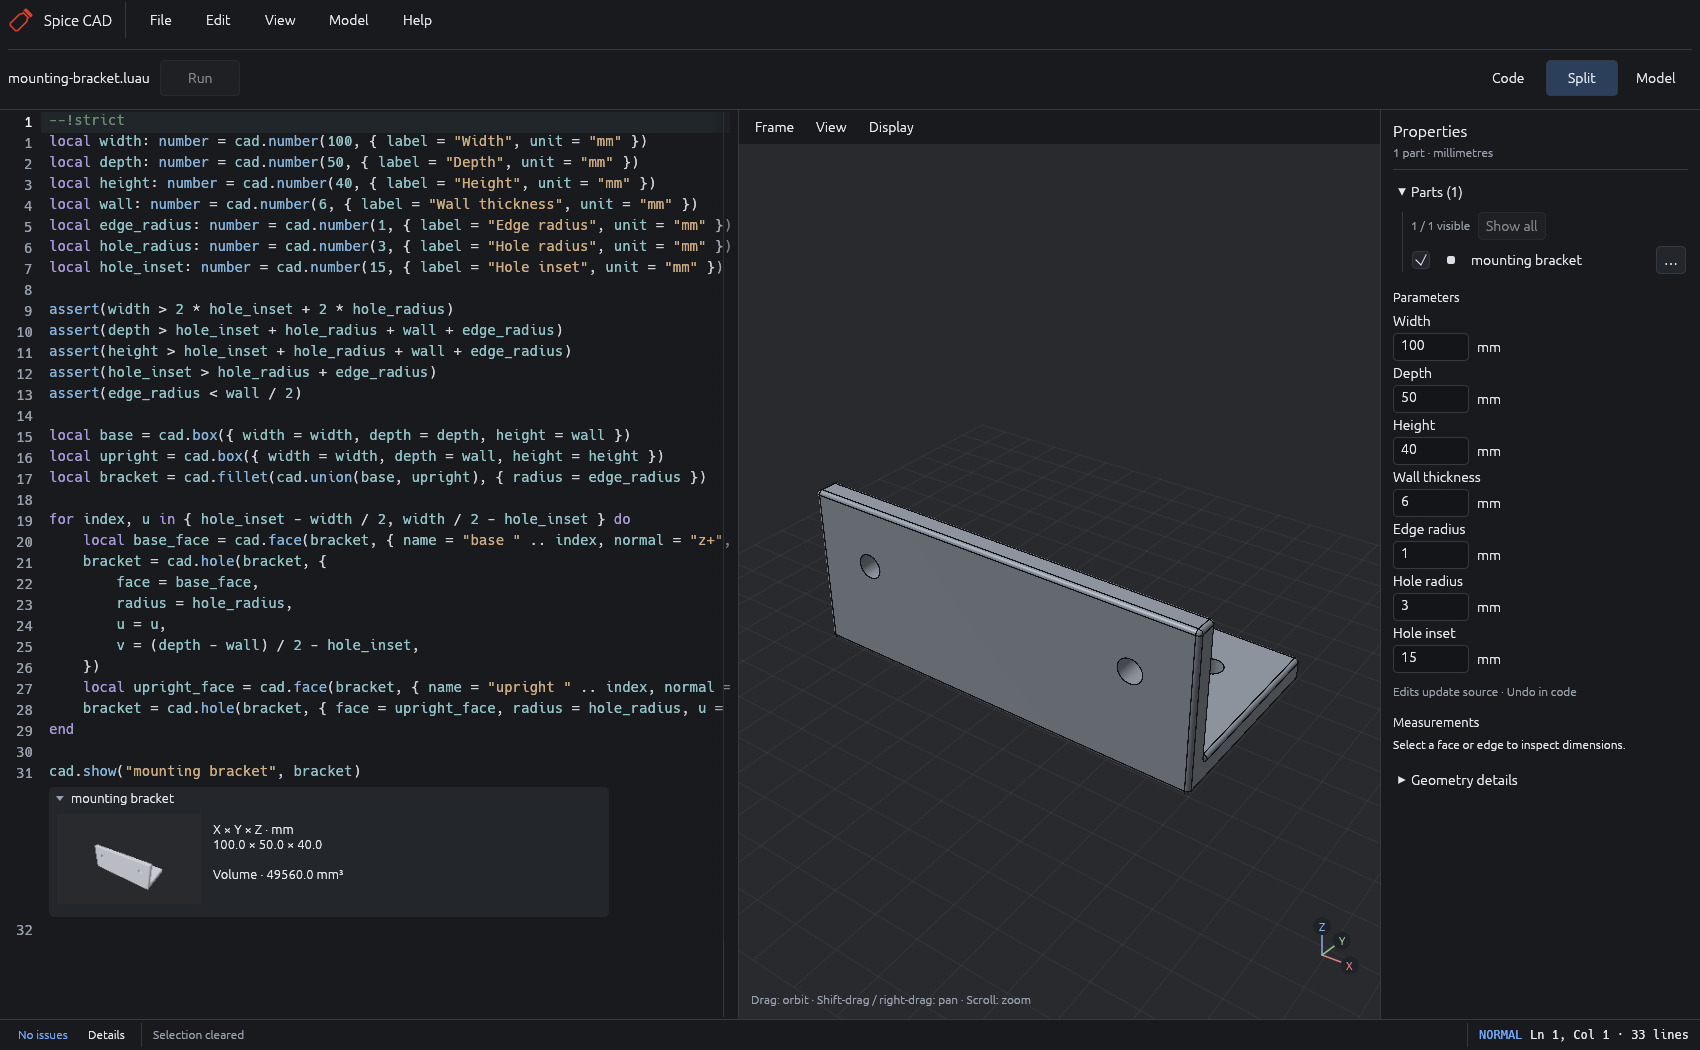
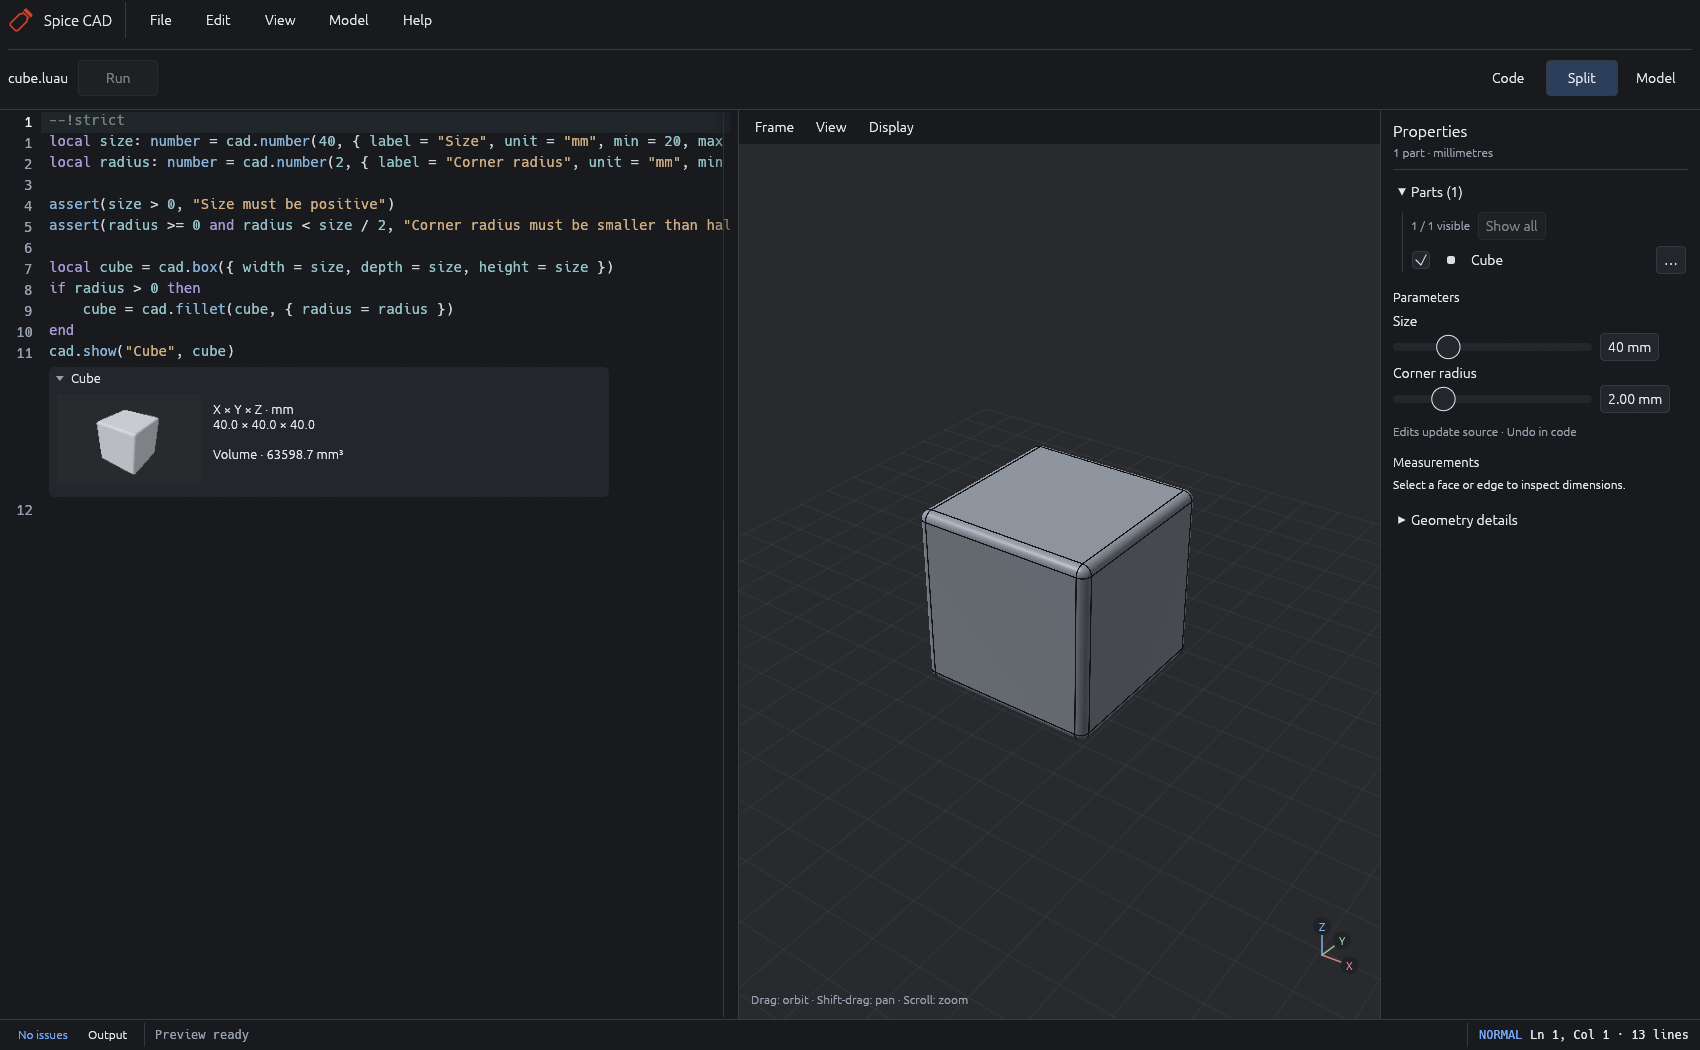
docs: refresh workspace screenshot

diff --git a/README.md b/README.md
@@ -4,7 +4,7 @@ Native CAD driven by typed Luau scripts, by [Holy Furries Studio](https://holyfu
 Write shapes in code, adjust parameters in the UI, and export parts for 3D printing
 or simple game assets. Built with Rust, SMLib, and egui/wgpu.
 
-![Spice CAD showing the mounting bracket's source, live model, and editable properties](docs/images/workspace.png)
+![Spice CAD showing the rounded cube's source, live model, and size and corner-radius sliders](docs/images/workspace.png)
 
 ## Start
 
